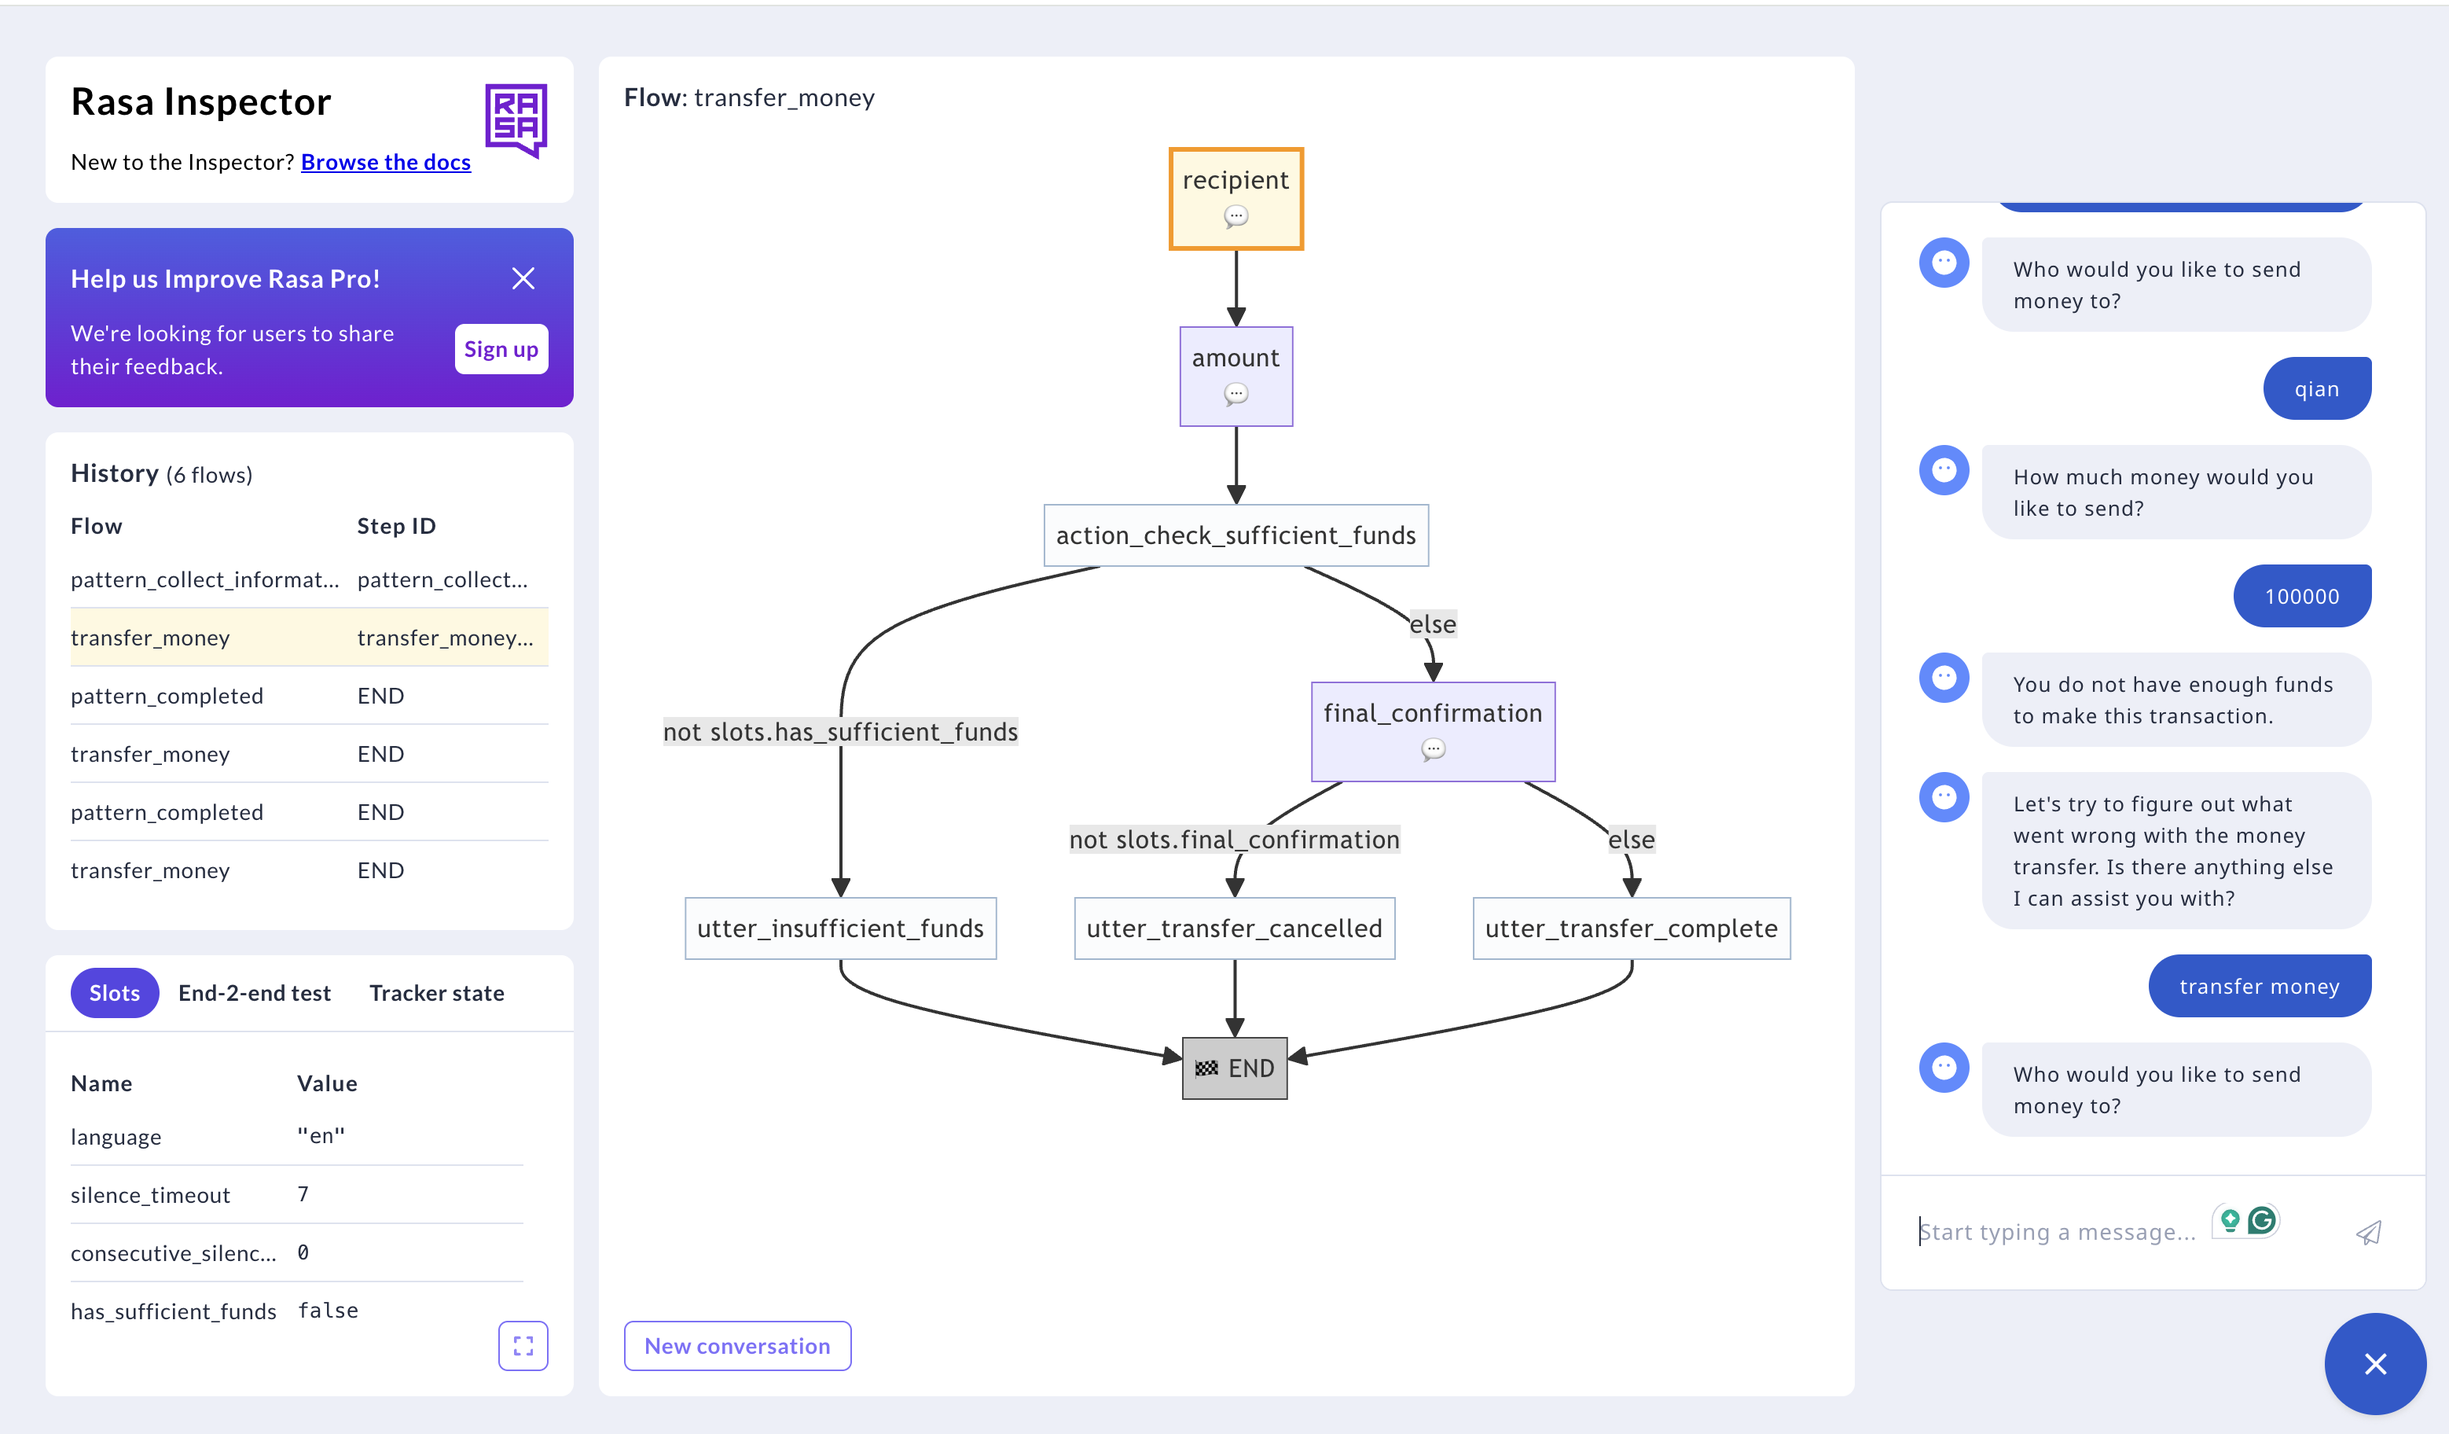
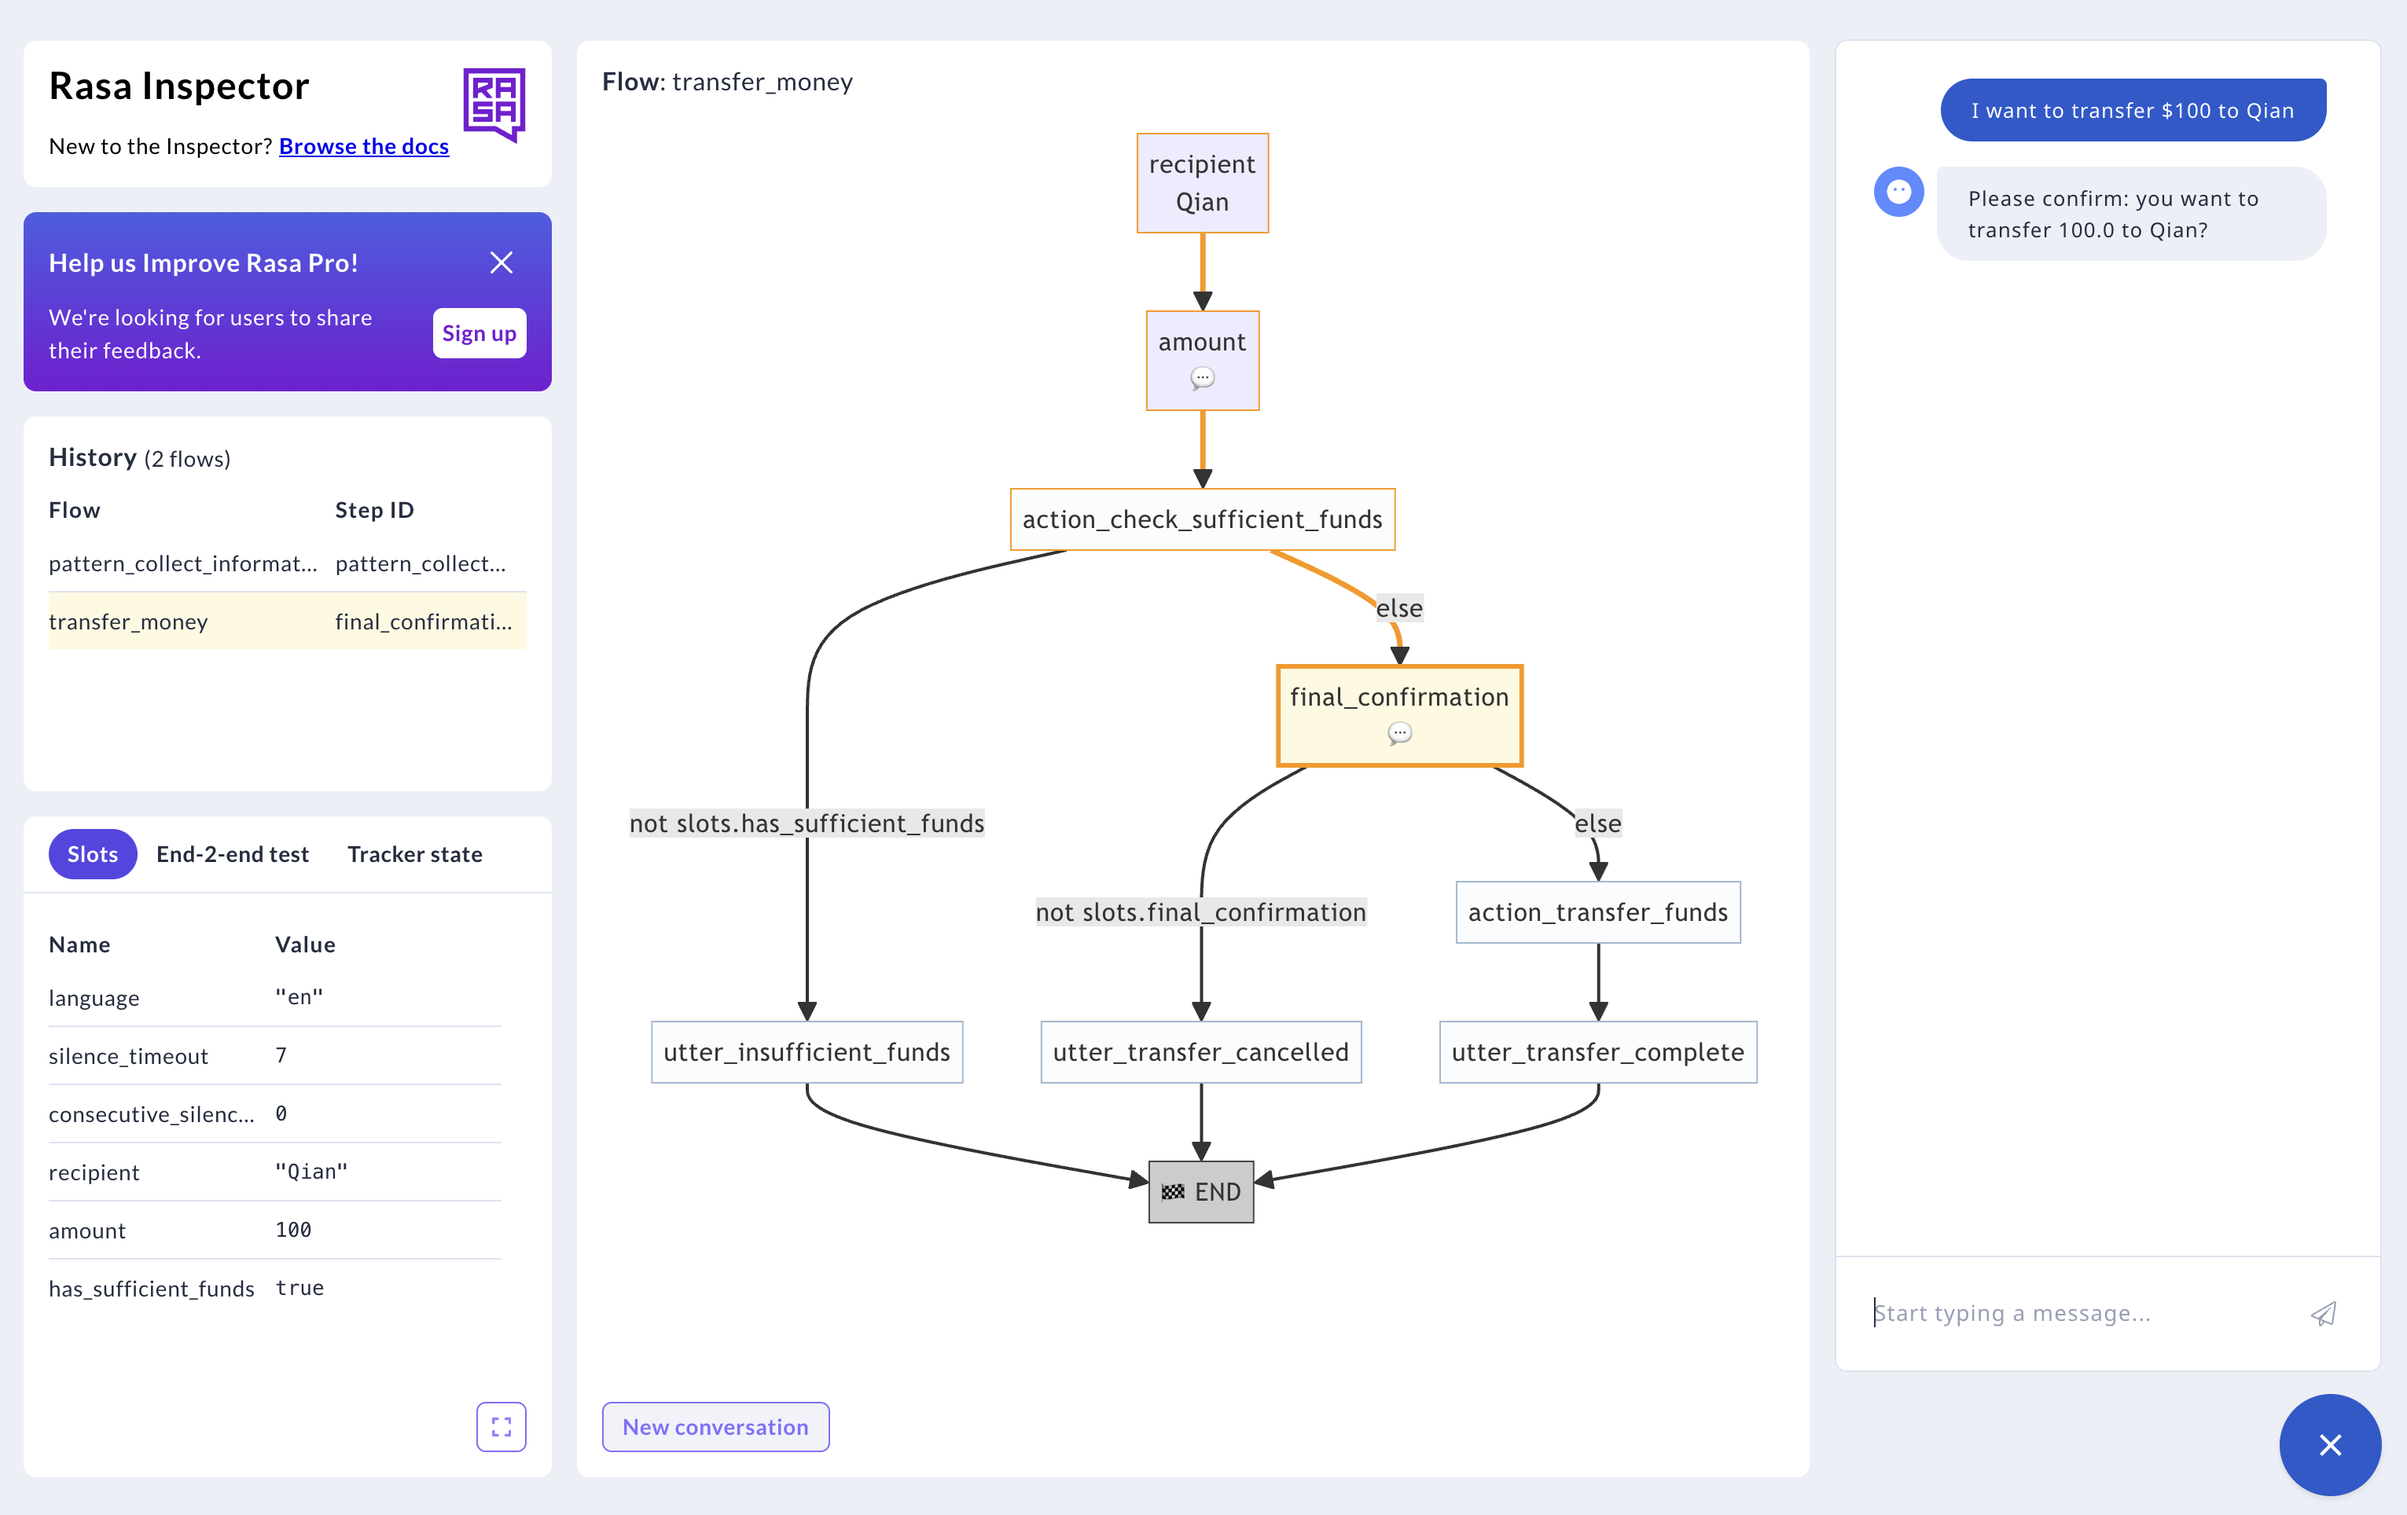
Support voice agent (#1)
Add a money transfer async workflow.
Make it work in voice mode.

diff --git a/actions/actions.py b/actions/actions.py
@@ -1,22 +1,36 @@
 import os
+from random import choices
+import string
+from time import sleep
 from typing import Any, Dict, List, Text
 
 from rasa_sdk import Action, Tracker
 from rasa_sdk.events import SlotSet
 from rasa_sdk.executor import CollectingDispatcher
 
-from dbos import DBOS, DBOSConfig
+from sendgrid import SendGridAPIClient
+from sendgrid.helpers.mail import Mail
+
+from dbos import DBOS, DBOSConfig, SetWorkflowID
 
 # Initialize DBOS with configuration
 config: DBOSConfig = {
     "name": "dbos-rasa-demo",
-    "database_url": os.environ.get("DBOS_DATABASE_URL", "postgresql://postgres:dbos@localhost:5432/dbos_rasa_demo"),
+    "database_url": os.environ.get(
+        "DBOS_DATABASE_URL", "postgresql://postgres:dbos@localhost:5432/dbos_rasa_demo"
+    ),
 }
 
 # Conductor key is optional to connect to DBOS Conductor for managing workflows via the web UI.
-conductor_key=os.environ.get("DBOS_CONDUCTOR_KEY", None)
+conductor_key = os.environ.get("DBOS_CONDUCTOR_KEY", None)
 
 DBOS(config=config, conductor_key=conductor_key)
+
+# Configure SendGrid
+sg_api_key = os.environ.get("SENDGRID_API_KEY")
+email_client = None
+if sg_api_key:
+    email_client = SendGridAPIClient(sg_api_key)
 
 @DBOS.step()
 def check_current_balance() -> int:
@@ -27,20 +41,76 @@ def check_current_balance() -> int:
     balance = 1000
     return balance
 
+
 @DBOS.workflow()
-def transfer_money_workflow(amount: int) -> bool:
+def check_balance_workflow(amount: int) -> bool:
     """
-    A simple workflow to simulate a money transfer.
+    A simple workflow to check if the user has sufficient funds for a transfer.
     """
     # Check the current funds by invoking the step
-    current_balance = check_current_balance()    
+    current_balance = check_current_balance()
 
     if amount <= current_balance:
         return True
     return False
 
+
+@DBOS.step()
+def transfer_money(amount: int, recipient: str) -> str:
+    """
+    Transfer money from the user's account.
+    This is a placeholder for the actual transfer logic.
+    """
+    sleep(5)  # Simulate a delay for the transfer process
+    DBOS.logger.info(f"Transfer to {recipient} of {amount} units completed.")
+    return "Success"
+
+
+@DBOS.step()
+def send_confirmation_message(amount: int, recipient: str, success: str) -> bool:
+    """
+    Send a confirmation message to the user after the transfer.
+    This is a placeholder for the actual messaging logic.
+    """
+    DBOS.logger.info(
+        f"Sending confirmation message for transfer of {amount} units, status: {success}."
+    )
+    if email_client:
+        message = Mail(
+            from_email='demo@dbos.dev',
+            to_emails='qian.li@dbos.dev',
+            subject='Transfer Confirmation 🚀',
+            html_content=f"<p>Your transfer to <strong>{recipient}</strong> of <strong>{amount}</strong> units status was <strong>{success}</strong.</p>"
+        )
+        email_client.send(message)
+        DBOS.logger.info("Confirmation email sent successfully.")
+        return True
+    else:
+        DBOS.logger.info("Email client not configured. Cannot send confirmation message.")
+        # In a real application, you might want to raise an exception or handle this case differently
+    return False
+
+
+@DBOS.workflow()
+def transfer_funds_workflow(amount: int, recipient: str) -> bool:
+    """
+    A simple workflow to transfer funds.
+    This is a placeholder for the actual transfer logic.
+    """
+    # First step, transfer money
+    transfer_success = transfer_money(amount, recipient)
+
+    # Wait a bit before sending the confirmation message
+    DBOS.sleep(15)
+
+    # Then, send a confirmation message
+    status = send_confirmation_message(amount, recipient, transfer_success)
+    return status
+
+
 # Start the DBOS instance
 DBOS.launch()
+
 
 class ActionCheckSufficientFunds(Action):
     def name(self) -> Text:
@@ -54,5 +124,55 @@ class ActionCheckSufficientFunds(Action):
     ) -> List[Dict[Text, Any]]:
         transfer_amount = tracker.get_slot("amount")
         # Invoke a DBOS workflow by simply calling the function
-        has_sufficient_funds = transfer_money_workflow(transfer_amount)
+        has_sufficient_funds = check_balance_workflow(transfer_amount)
         return [SlotSet("has_sufficient_funds", has_sufficient_funds)]
+
+
+class ActionTransferFunds(Action):
+    def name(self) -> Text:
+        return "action_transfer_funds"
+
+    def run(
+        self,
+        dispatcher: CollectingDispatcher,
+        tracker: Tracker,
+        domain: Dict[Text, Any],
+    ) -> List[Dict[Text, Any]]:
+        transfer_amount = tracker.get_slot("amount")
+        recipient = tracker.get_slot("recipient")
+        # Invoke a DBOS workflow asynchronously
+        wfid = ''.join(choices(string.ascii_lowercase, k=4))
+
+        with SetWorkflowID(wfid):
+            handle = DBOS.start_workflow(
+                transfer_funds_workflow, transfer_amount, recipient
+            )
+
+        return [SlotSet("transfer_status", f"started ID: {handle.workflow_id}")]
+
+
+class ActionCheckTransferStatus(Action):
+    def name(self) -> Text:
+        return "action_check_transfer_status"
+
+    def run(
+        self,
+        dispatcher: CollectingDispatcher,
+        tracker: Tracker,
+        domain: Dict[Text, Any],
+    ) -> List[Dict[Text, Any]]:
+        workflow_id = tracker.get_slot("transfer_workflow_id")
+        if not workflow_id:
+            dispatcher.utter_message(text="No transfer workflow ID provided.")
+            return []
+
+        # Check the status of the workflow
+        status = DBOS.get_workflow_status(workflow_id)
+        if status is None:
+            dispatcher.utter_message(text=f"Workflow {workflow_id} not found.")
+        else:
+            dispatcher.utter_message(
+                text=f"Workflow {workflow_id} status: {status.status}"
+            )
+
+        return []

diff --git a/README.md b/README.md
@@ -24,32 +24,31 @@ conductor_key=os.environ.get("DBOS_CONDUCTOR_KEY", None)
 DBOS(config=config, conductor_key=conductor_key)
 
 @DBOS.step()
-def check_current_balance() -> int:
-    """
-    Check if the user has sufficient funds for the transfer.
-    This is a simple check that would typically involve querying a database or an external service.
-    """
-    balance = 1000
-    return balance
+def transfer_money(amount: int, recipient: str) -> str:
+    ...
+
+@DBOS.step()
+def send_confirmation_message(amount: int, recipient: str, success: str) -> bool:
+    ...
 
 @DBOS.workflow()
-def transfer_money_workflow(amount: int) -> bool:
-    """
-    A simple workflow to simulate a money transfer.
-    """
-    # Check the current funds by invoking the step
-    current_balance = check_current_balance()    
+def transfer_funds_workflow(amount: int, recipient: str) -> bool:
+    # First step, transfer money
+    transfer_success = transfer_money(amount, recipient)
 
-    if amount <= current_balance:
-        return True
-    return False
+    # Wait a bit before sending the confirmation message
+    DBOS.sleep(15)
+
+    # Then, send a confirmation message
+    status = send_confirmation_message(amount, recipient, transfer_success)
+    return status
 
 # Start the DBOS instance
 DBOS.launch()
 
-class ActionCheckSufficientFunds(Action):
+class ActionTransferFunds(Action):
     def name(self) -> Text:
-        return "action_check_sufficient_funds"
+        return "action_transfer_funds"
 
     def run(
         self,
@@ -58,9 +57,16 @@ class ActionCheckSufficientFunds(Action):
         domain: Dict[Text, Any],
     ) -> List[Dict[Text, Any]]:
         transfer_amount = tracker.get_slot("amount")
-        # Invoke a DBOS workflow by simply calling the function
-        has_sufficient_funds = transfer_money_workflow(transfer_amount)
-        return [SlotSet("has_sufficient_funds", has_sufficient_funds)]
+        recipient = tracker.get_slot("recipient")
+        # Invoke a DBOS workflow asynchronously
+        wfid = ''.join(choices(string.ascii_lowercase, k=4))
+
+        with SetWorkflowID(wfid):
+            handle = DBOS.start_workflow(
+                transfer_funds_workflow, transfer_amount, recipient
+            )
+
+        return [SlotSet("transfer_status", f"started ID: {handle.workflow_id}")]
 ```
 
 ## Try This Demo!
@@ -74,11 +80,20 @@ source .venv/bin/activate
 uv pip install dbos
 # Install rasa-pro later because it requires older versions of several libraries.
 uv pip install rasa-pro
-# Upgrade websockets to 14.1
-uv pip install websockets==14.1
+# Upgrade websockets to 13.1
+uv pip install websockets==13.1
+# Install sendgrid (for sending emails)
+uv pip install sendgrid
 
 # Put your Rasa Pro license key here
 export RASA_PRO_LICENSE=<YOUR_LICENSE_KEY>
+
+# Configure speech services, using Deepgram for ASR and Cartesia for TTS
+export DEEPGRAM_API_KEY=<YOUR-DEEPGRAM-KEY>
+export CARTESIA_API_KEY=<YOUR-CARTESIA-KEY>
+
+# (Optional) Configure SendGrid for actually sending an email
+export SENDGRID_API_KEY=<YOUR-SENDGRID-API-KEY>
 ```
 
 
@@ -101,12 +116,17 @@ rasa train
 rasa inspect
 ```
 
+Alternatively, to run in the voice mode, simply start the Rasa server with:
+```
+rasa inspect --voice
+```
+
 Once it's successfully launched, you should be able to see this chat interface:
 
 ![Rasa inspect](imgs/rasa-intercept.png)
 
 You can see the money transfer workflow. Chat with it to trigger the loading of the custom actions.
-You should see `Registered function for 'action_check_sufficient_funds'` if everything goes well:
+You should see `Registered function for 'action_transfer_funds'` if everything goes well:
 
 ![dbos-terminal](imgs/dbos-terminal.png)
 
@@ -119,3 +139,7 @@ export DBOS_CONDUCTOR_KEY=<Your Key>
 Restart your Rasa server and load the action again. Now you should see the history of all workflows from the DBOS Console:
 
 ![dbos-console](imgs/dbos-console.png)
+
+You can click and check the steps of each workflow:
+![dbos-workflow-graph](imgs/dbos-workflow-graph.png)
+
